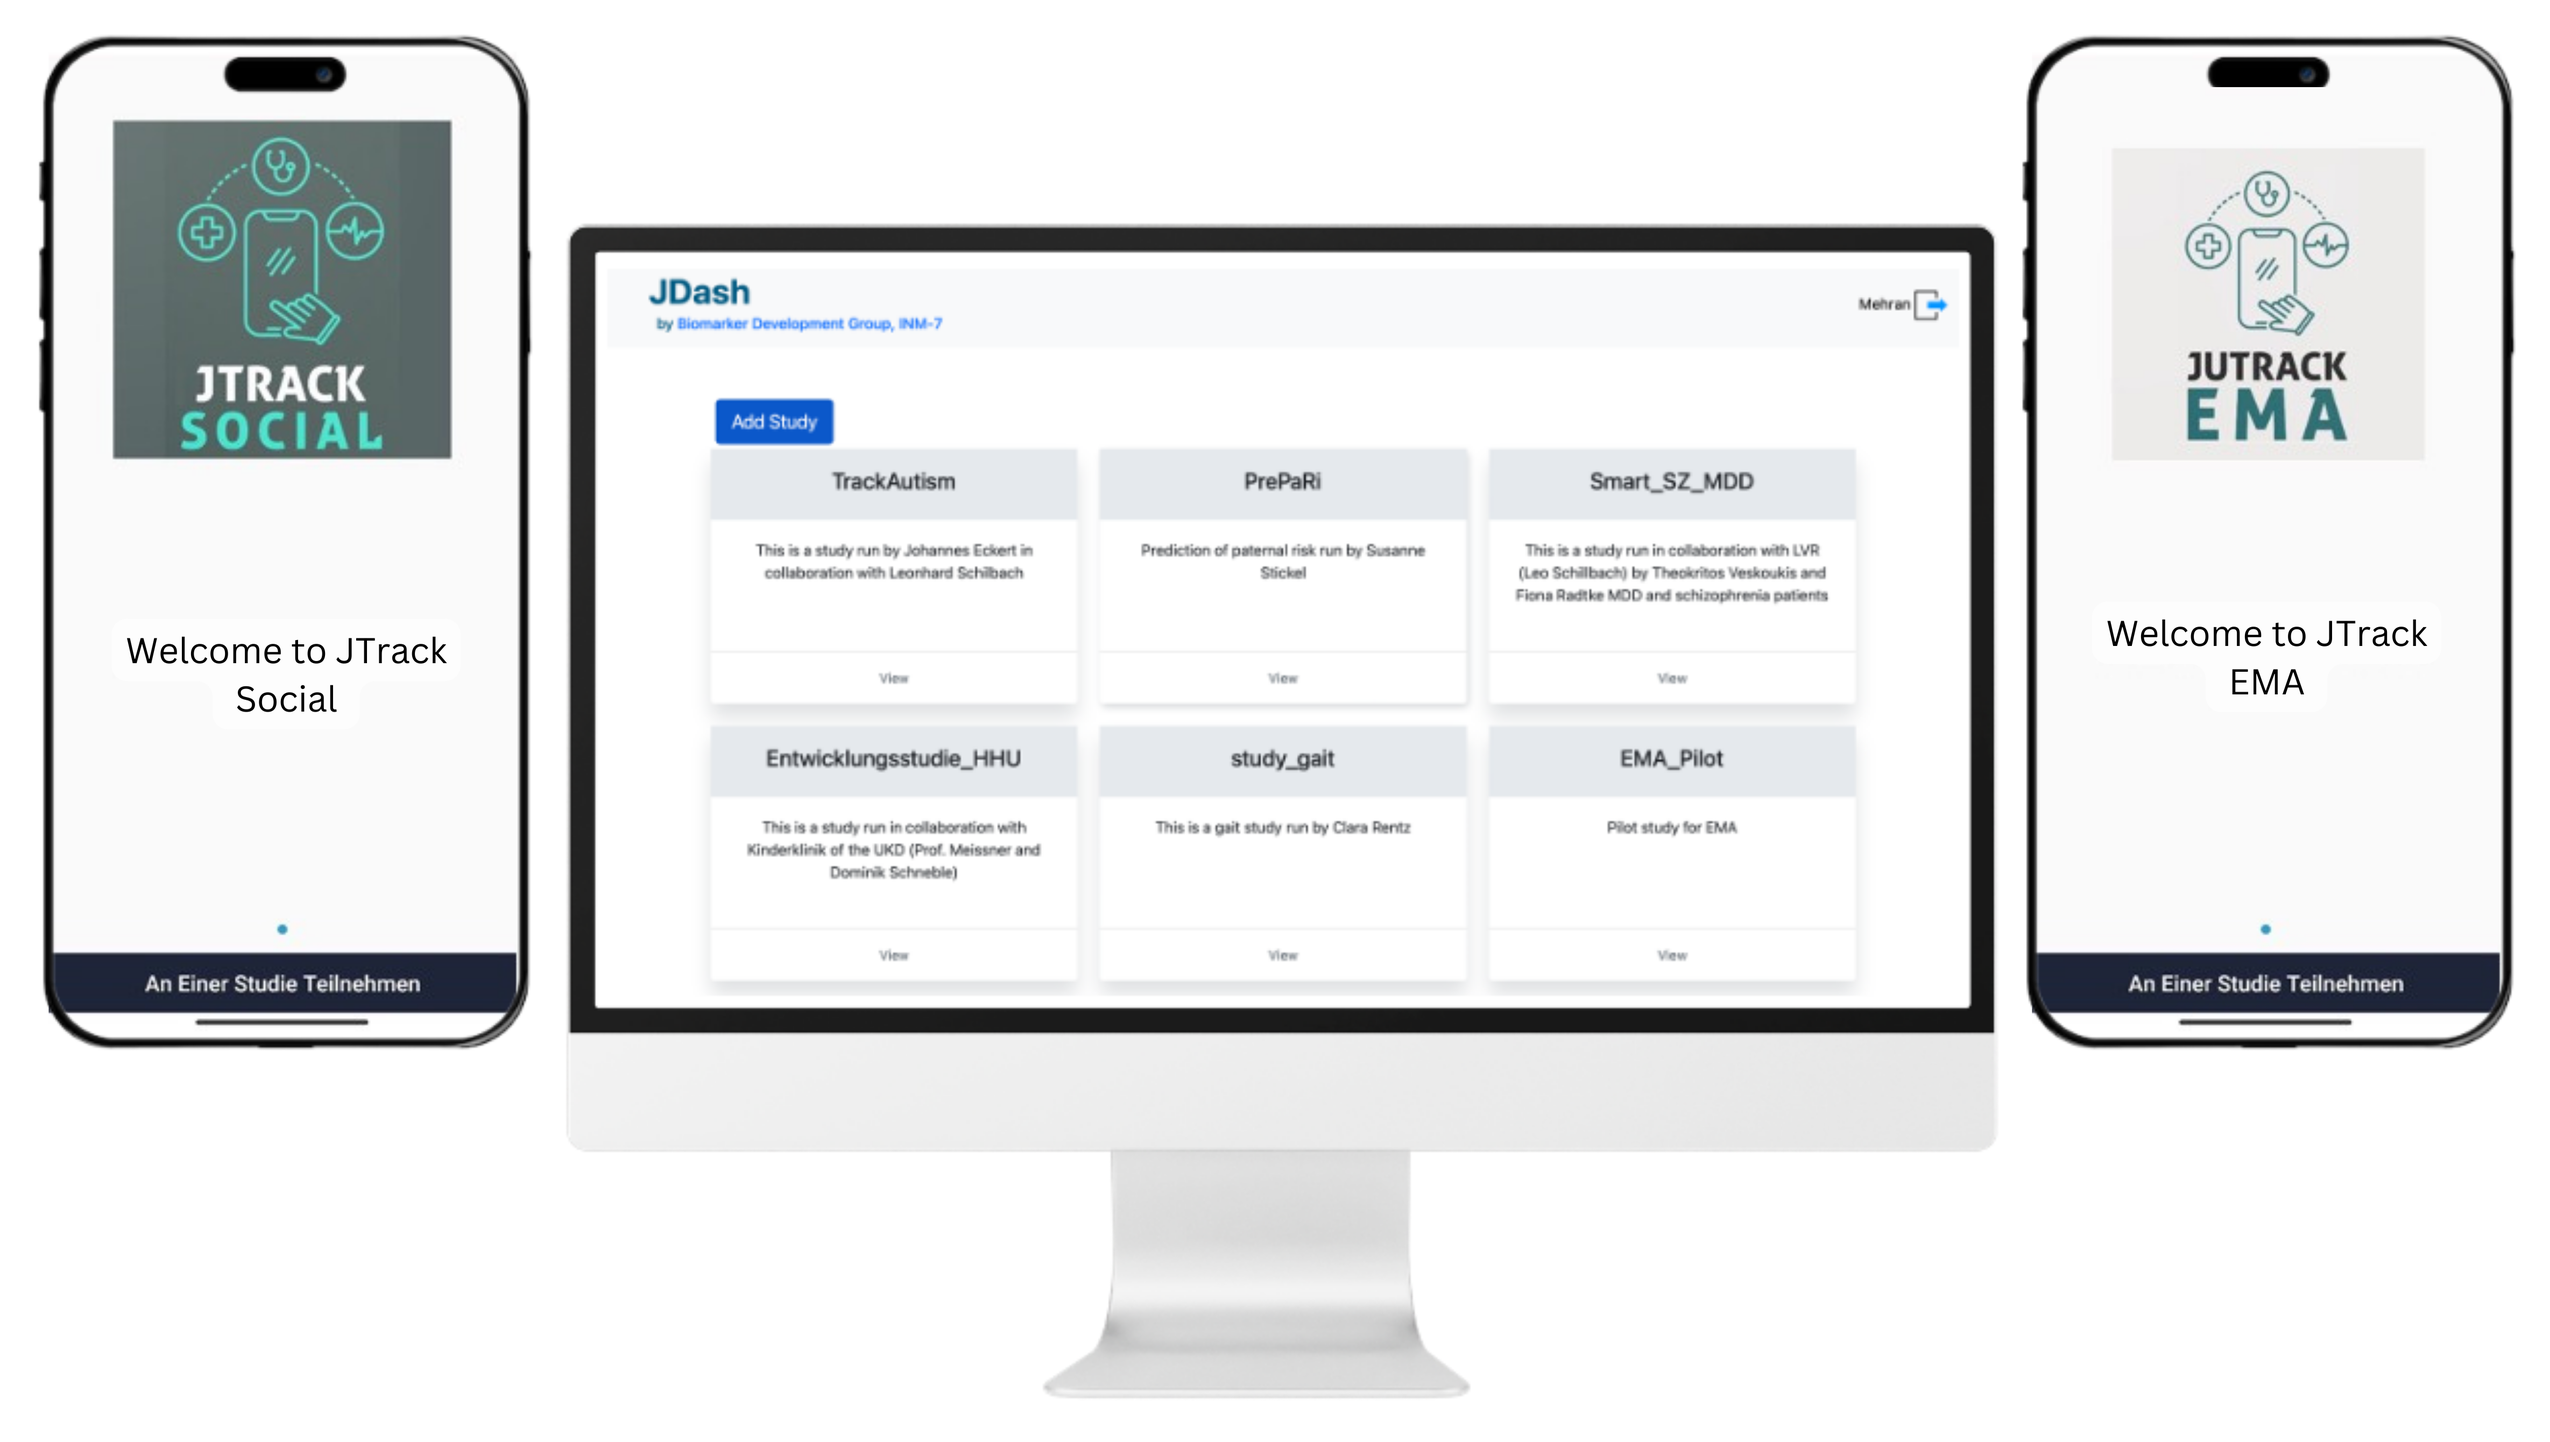
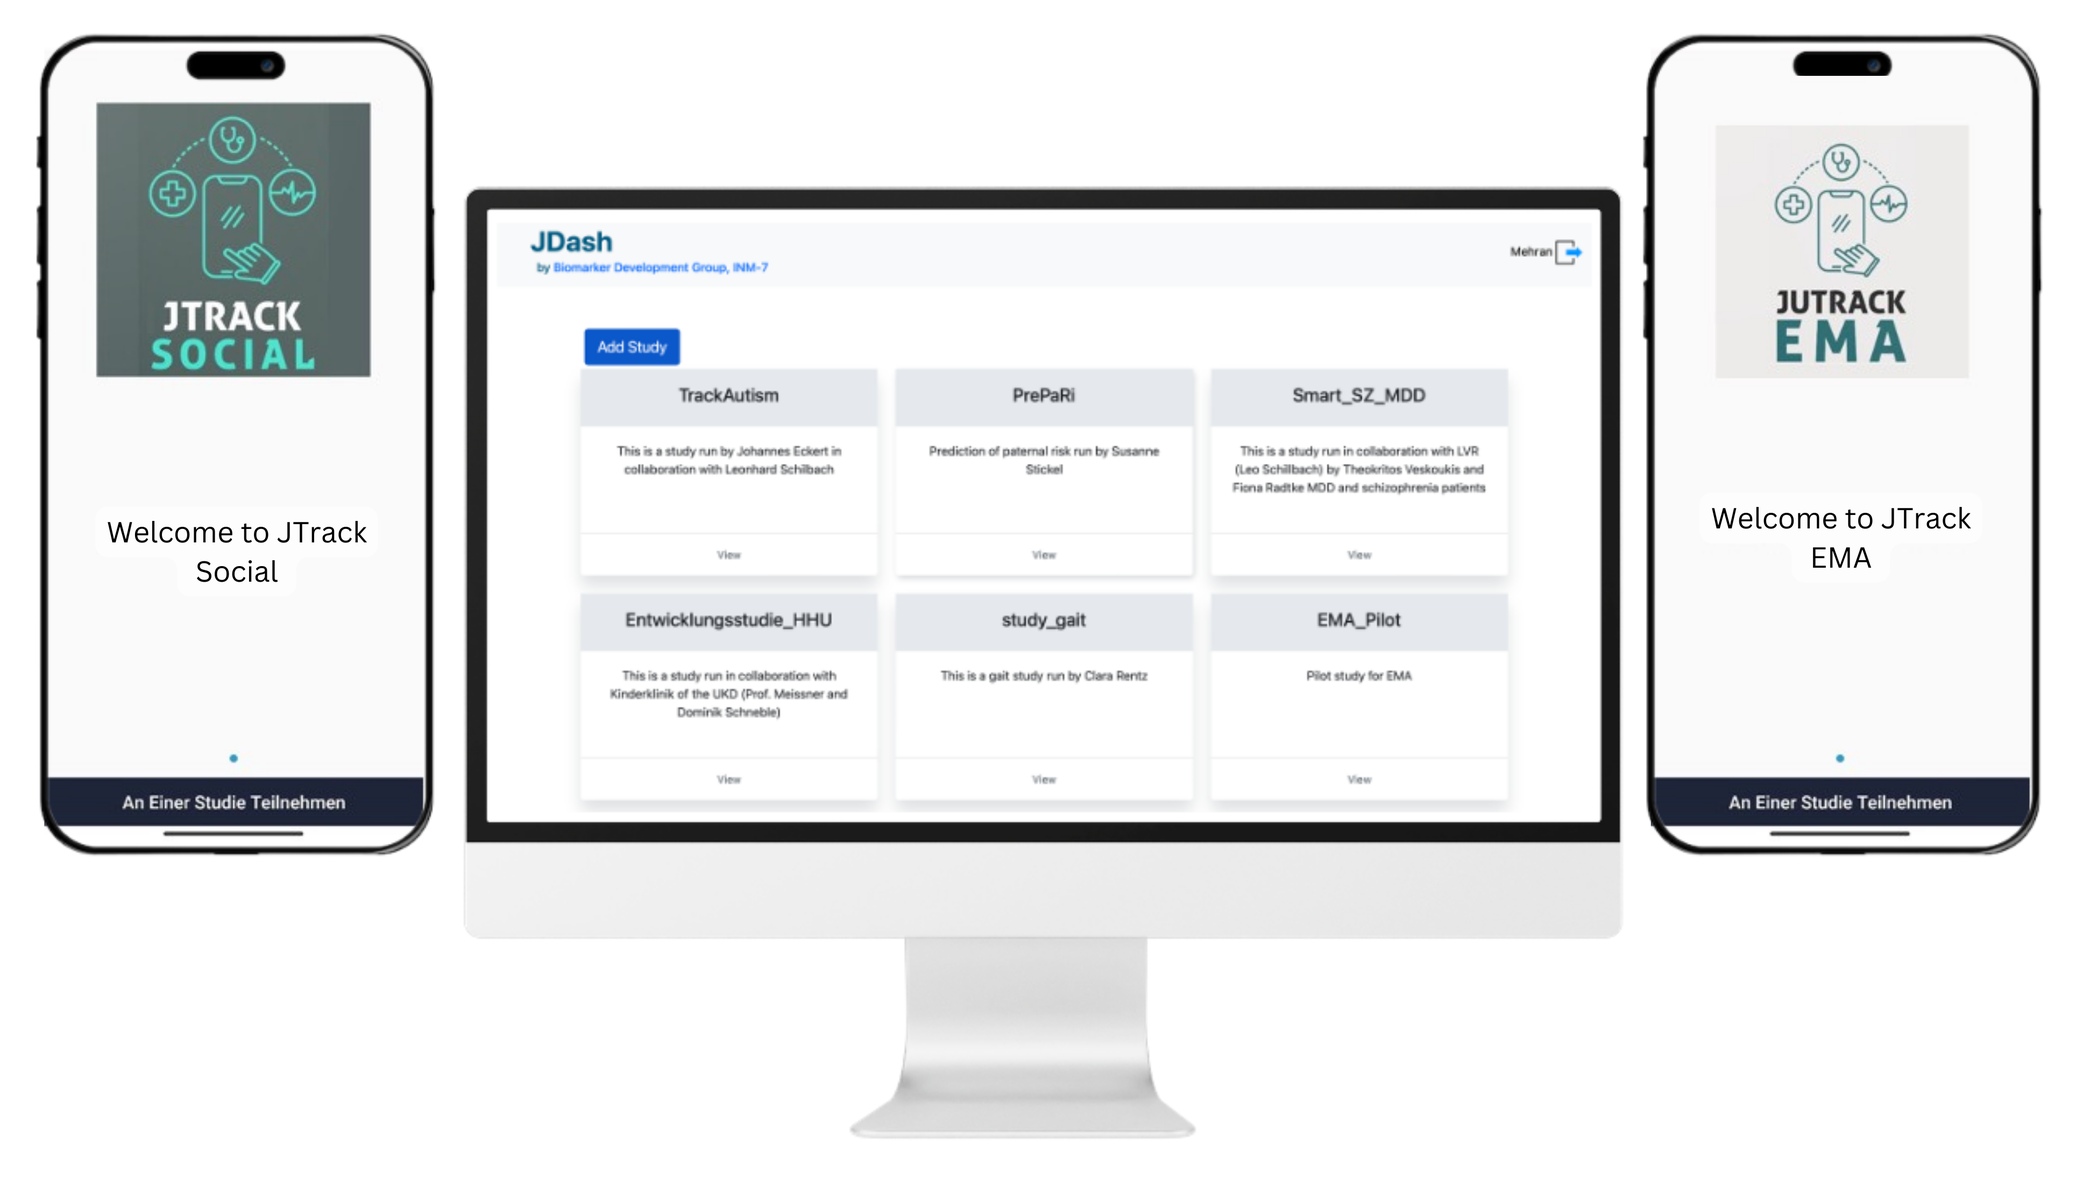
main images changes

diff --git a/docs/source/index.rst b/docs/source/index.rst
@@ -21,7 +21,7 @@ JTrack platform includes:
 
 
 .. image:: image/3Apps.png
-   :scale: 40 %
+   :scale: 30 %
    :align: center
 
 
@@ -44,6 +44,7 @@ Publications:
 Contact Us:
 +++++++++++
 Interested in using JTrack in you study? `Contact us: <https://test.jutrack.inm7.de/jdash/>`_
+
 
 
 
